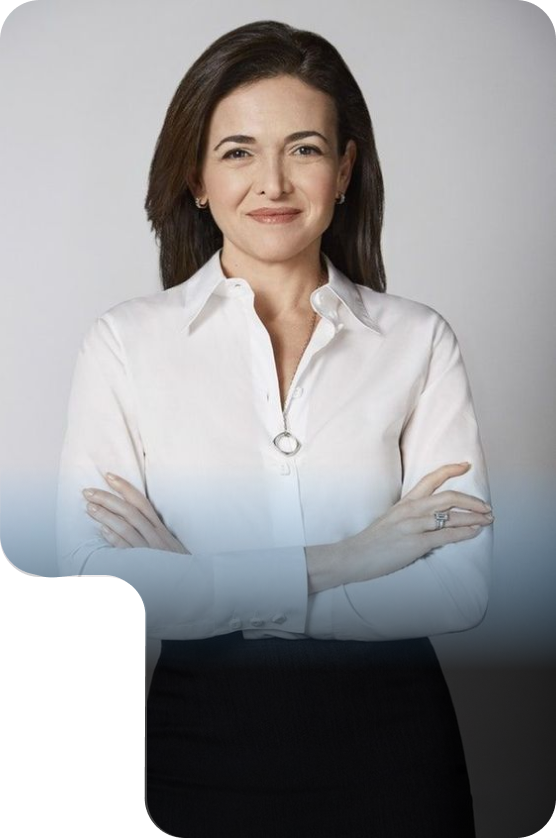
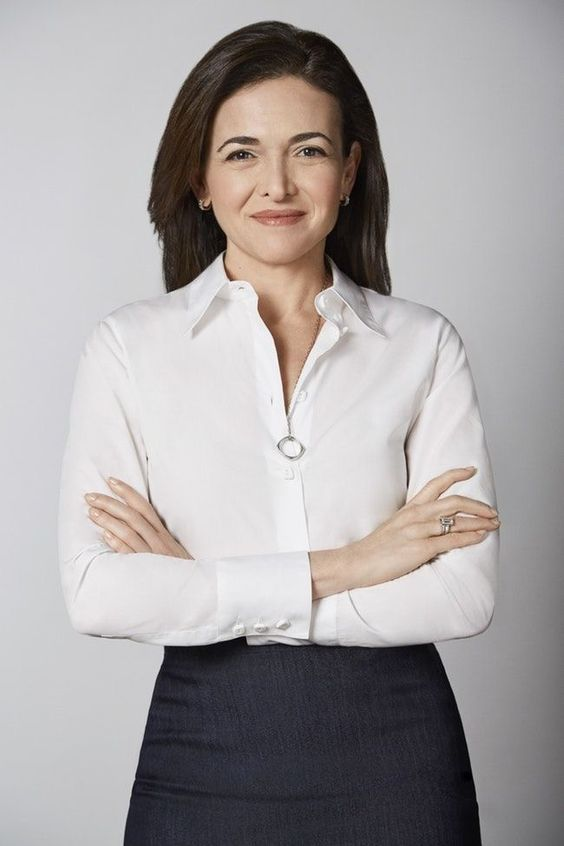
Teachers edit

diff --git a/src/component/Teachers/Teacherdetails/index.tsx b/src/component/Teachers/Teacherdetails/index.tsx
@@ -109,15 +109,22 @@ provide students with valuable insights and potential career opportunities.”`,
   />
   <h2 className="mt-[44px] uppercase w-[300px] sm:w-[350px] md:w-[450px] lg:w-[400px] text-[24px] sm:text-[36px] md:text-[48px] lg:text-[60px] xl:text-[72px]"       style={{ fontFamily: 'Helvetica', fontWeight: '500', color: 'rgba(0, 0, 0, 0.8)' }}>{teacher.name}</h2>
         </div>
+       
         <div className="mt-[44px]">
           <p className="w-[495px] text-[18px]" style={{color: 'rgba(35, 45, 79, 0.7)',fontFamily:'Helvetica'}}>online platforms often offer mico-courses or modules allowing learners to focus on specific topics of interest and acquire targeted skills</p>
-        </div>      
+        </div> 
+             
   </div>
     </div>
     <div className="pl-[120px]">
+      <div className="flex">
       <div className="flex flex-col">
       <img src={Training1} className='mt-4 lg:mt-0 ml-0 lg:ml-4 w-[80px] lg:w-[100px]' alt="Training 1" />
       <img src={Training2} className='mt-4 lg:mt-0 ml-0 lg:ml-4 w-[80px] lg:w-[100px]' alt="Training 2" />
+      </div>
+      <div className="w-[900px] ml-[100px]">
+      <img className="h-[600px]   " src={teacher.image}/>
+      </div>
       </div>
       <div >
         <div className="flex items-center">
@@ -130,6 +137,7 @@ provide students with valuable insights and potential career opportunities.”`,
           </div>
         </div>
       </div>
+      
     </div>
     <div className="flex items-center pl-[120px]  mb-[54px] mt-[80px]" >
       <h3  className="text-[44px] " style={{

diff --git a/src/component/Home/Teacher/index.tsx b/src/component/Home/Teacher/index.tsx
@@ -81,12 +81,12 @@ const Teachers: React.FC = () => {
         >
           {teachers.map((teacher, index) => (
             <div className='relative' key={index}>
-              <img className='lg:w-[277px] w-full' src={teacher.image} alt={teacher.name} />
+              <img className='lg:w-[277px] w-full h-[419px] rounded-[12px]' src={teacher.image} alt={teacher.name} />
               <div className='absolute bottom-[32px] left-[90px]'>
                 <span className='text-[20px] lg:text-[24px]' style={{ color: 'rgb(255, 255, 255)', fontFamily: 'Helvetica-light' }}>{teacher.name}</span>
                 <p className='text-[14px] lg:text-[16px] mt-[11px]' style={{ fontFamily: 'Helvetica-light', color: 'rgb(255, 255, 255)' }}>{teacher.position}</p>
               </div>
-              <div className='absolute bottom-[5px] left-[5px] rounded-[15px] w-[55px] h-[120px] flex flex-col items-center' style={{ background: 'linear-gradient(249.85deg, rgb(248, 27, 166) 27.22%, rgb(240, 67, 207) 92.428%)', padding: '10px' }}>
+              <div className='absolute bottom-[10px] left-[7px] rounded-[15px] w-[55px] h-[120px] flex flex-col items-center' style={{ background: 'linear-gradient(249.85deg, rgb(248, 27, 166) 27.22%, rgb(240, 67, 207) 92.428%)', padding: '10px' }}>
                 <a href='#' className='mb-[4px]'><img src={Facebook} alt="Facebook" /></a>
                 <a href='#' className='mb-[4px]'><img src={Twitter} alt="Twitter" /></a>
                 <a href='#'><img src={Linkedin} alt="LinkedIn" /></a>

diff --git a/src/component/Teachers/index.tsx b/src/component/Teachers/index.tsx
@@ -95,13 +95,13 @@ const Teachers: React.FC = () => {
     <div
       className="relative mr-[20px] sm:mr-[30px] md:mr-[50px] lg:mr-[91px] mt-[20px] sm:mt-[40px] md:mt-[60px] lg:mt-[100px] xl:mt-[120px] 2xl:mt-[140px]"
       key={index}
-
+  
     >
       
       <img
-
-        className= " relative w-full lg:w-[277px] xl:w-[300px] 2xl:w-[350px] "
-        style={{ transition: 'opacity 0.3s ease',       }}
+         
+        className= "rounded-[20px]  h-[419px] relative w-full lg:w-[277px] xl:w-[300px] 2xl:w-[350px] "
+        style={{ transition: 'opacity 0.3s ease',  objectFit: 'cover'     }}
         src={teacher.image}
         alt={teacher.name}
       />
@@ -122,7 +122,7 @@ const Teachers: React.FC = () => {
 
       {/* Social Media Icons with higher z-index */}
       <div
-        className=" absolute bottom-[5px] left-[5px] rounded-[10px] sm:rounded-[12px] md:rounded-[15px] lg:rounded-[15px] w-[40px] sm:w-[45px] md:w-[50px] lg:w-[55px] h-[80px] sm:h-[90px] md:h-[100px] lg:h-[120px] flex flex-col items-center z-10"
+        className=" absolute bottom-[10px] left-[7px] rounded-[10px] sm:rounded-[12px] md:rounded-[15px] lg:rounded-[15px] w-[40px] sm:w-[45px] md:w-[50px] lg:w-[55px] h-[80px] sm:h-[90px] md:h-[100px] lg:h-[120px] flex flex-col items-center z-10"
         style={{
           
           background: 'linear-gradient(249.85deg, rgb(248, 27, 166) 27.22%, rgb(240, 67, 207) 92.428%) ',

diff --git a/src/component/Navbar/index.tsx b/src/component/Navbar/index.tsx
@@ -34,8 +34,7 @@ const GotoAbout=()=>{
           <li><a href="#" className='pb-2 sm:pb-0 sm:pr-[53px]' style={{ textDecoration: 'none', fontFamily: 'SF Pro Display', color: 'rgb(35, 45, 80)' }} onClick={()=>navigate('/Courses')}>Courses</a></li>
           <li><a href="#" className='pb-2 sm:pb-0 sm:pr-[53px]' style={{ textDecoration: 'none', fontFamily: 'SF Pro Display', color: 'rgb(35, 45, 80)' }}  onClick={()=>navigate('/Teachers')}>Teachers</a></li>
           <li><a href="#" className='pb-2 sm:pb-0 sm:pr-[53px]' style={{ textDecoration: 'none', fontFamily: 'SF Pro Display', color: 'rgb(35, 45, 80)' }} onClick={()=>navigate('/Blogs')}>Blogs</a></li>
-          <li><a href="#" className='' style={{ textDecoration: 'none', fontFamily: 'SF Pro Display', color: 'rgb(35, 45, 80)' }}>Contact</a></li>
-          <li><a href="#" className='pb-2 sm:pb-0 sm:pr-[53px]' style={{ textDecoration: 'none', fontFamily: 'SF Pro Display', color: 'rgb(35, 45, 80)' }} >Blogs</a></li>
+         
           <li><a href="#" className='' style={{ textDecoration: 'none', fontFamily: 'SF Pro Display', color: 'rgb(35, 45, 80)' }}  onClick={()=>navigate('/Contact')}>Contact</a></li>
         </ul>
         <div className="flex items-center   lg: mb-[16px] mt-[9px]">
